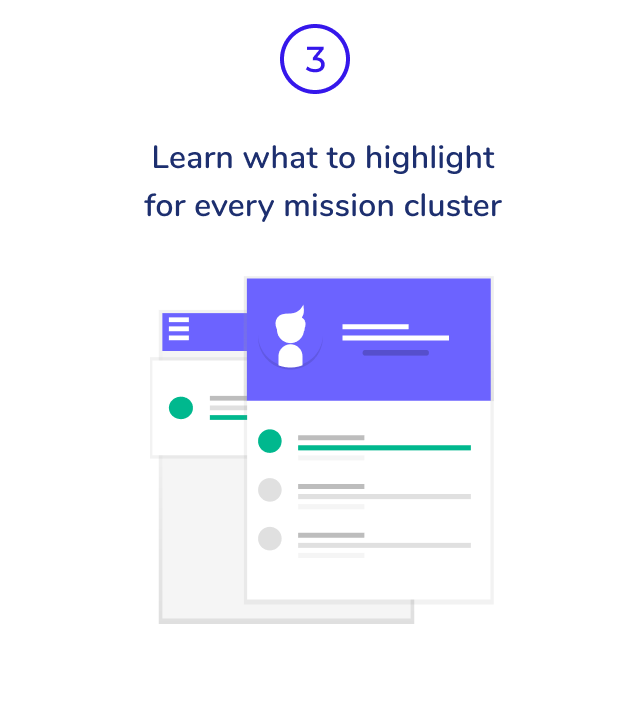
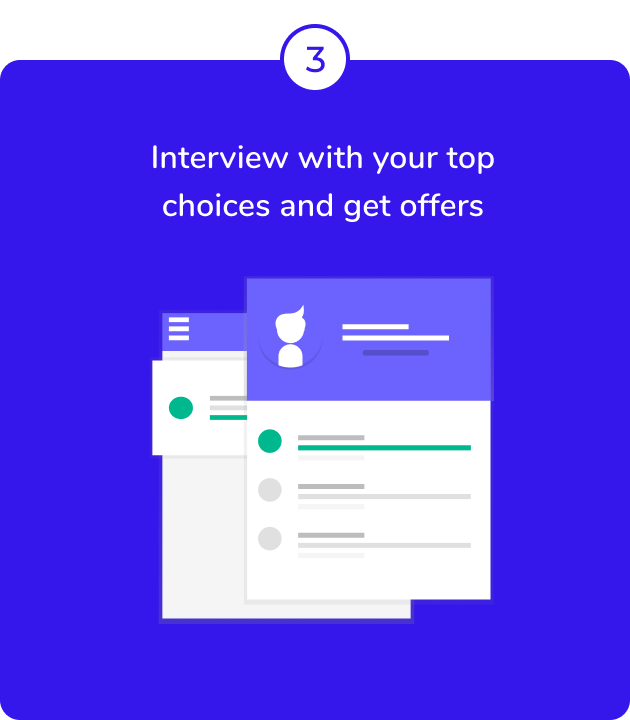
Content fixes on landing page:

diff --git a/website/src/components/landing-page.component.js b/website/src/components/landing-page.component.js
@@ -26,7 +26,6 @@ function LandingPage({ isAuthenticated, user }) {
     console.log(userData);
     console.log(allUsers)
 
-    
     return(
         <>
             <div className= 'blue-block landing-block black-text'>
@@ -49,32 +48,32 @@ function LandingPage({ isAuthenticated, user }) {
                         </ul>
                         <h1 className="black-text landing-text">Find a tech internship <br></br>
                         in <b>{" "}<span id="myElement"></span></b>|</h1>
-                        <p className="landing-text p1"> Start growing your career in tech by looking in the <br></br>
-                        areas you’re most passionate about.</p>
+                        <p className="landing-text p1"> Apply to mission-based clusters of companies and land<br></br>
+                        your dream SWE or PM internship.</p>
                     </div>
             </div>
 
-            <div className= 'white-block black-text'>
+{/*             <div className= 'white-block black-text'>
                 <div className= 'content'>
                     <h2>Explore Internships By Mission Cluster</h2>
                     <ClusterList />
                 </div>
-            </div>
+            </div> */}
 
-            <div className='blue-block'>
+            <div className='white-block'>
                 <div className= 'content'>
-                    <h2 className= 'center-text white-text text-space'>TechBound can help you customize your resume to company mission.</h2>
+                    <h2 className= 'center-text text-space black-text'>Stop sending hundreds of resumes into black holes of companies you're not excited about</h2>
                     <div class= 'image-rows'>
-                        <img class= 'three-step' alt='1. Choose the missions that resonate with you most' src='../../images/step1.png' />
-                        <img class= 'three-step' alt='2. Share your resume and other work experiences' src='../../images/step2.png' />
-                        <img class= 'three-step' alt='3. Learn what to highlight for every mission cluster' src='../../images/step3.png' />
+                        <img class= 'three-step' alt='1. Apply to the clusters that resonate with you most' src='../../images/step1.png' />
+                        <img class= 'three-step' alt='2. Meet and network with company recruiters within the clusters' src='../../images/step2.png' />
+                        <img class= 'three-step' alt='3. Interview with your top choices and get offers' src='../../images/step3.png' />
                     </div>
                 </div>
             </div>
 
             <div className='white-block'>
-                <div className= 'content'>
-                    <h2>Let us look at your resume and help you tailor it to your dream clusters.</h2>
+                <div className= 'content '>
+                    <h2 className= 'center-text text-space black-text'>Create an account to get first priority for our first fall cohort.</h2>
                     <Basics />
                 </div>
             </div>

diff --git a/website/src/components/basics.component.js b/website/src/components/basics.component.js
@@ -51,12 +51,11 @@ const Basics = ({ isAuthenticated, user }) => {
   return (
     <div>
       <Form>
-        <Form.Group className="form-label form-margin">
-          Email (to send results)
+         <Form.Group>
           <Form.Control
             type="email"
             name="email"
-            className="form-field"
+            className="form-field form-margin"
             placeholder="jenny@college.edu"
             value={email}
             onChange={setForm}
@@ -73,8 +72,8 @@ const Basics = ({ isAuthenticated, user }) => {
             label={fileName}
           />
         </Form.Group> */}
-        <Button className = 'button' variant="primary" onClick={handleClick}>
-          Get Started
+        <Button className = 'button form-margin' variant="primary" onClick={handleClick}>
+          Create account
         </Button>
       </Form>
     </div>

diff --git a/website/src/App.css b/website/src/App.css
@@ -345,11 +345,13 @@ h5 {
 .form-field {
   background: #F5F4F7;
   box-shadow: inset 0px 2px 5px rgba(0, 0, 0, 0.05);
-  border-radius: 8px;
+  /* border-radius: 8px; */
   width: 18vw;
   height: 5vh;
   font-family: Nunito;
   font-size: 2.25vh;
+  margin-left: 100vw;
+
 }
 
 .form-label {
@@ -357,11 +359,12 @@ h5 {
   font-size: 2.25vh;
   font-weight: 400;
   color: #152352;
+  margin-left: 100vw;
 }
 
 .form-margin {
-  margin-top: 8vh;
-  margin-bottom: 8vh;
+  margin-bottom: 4vh;
+  margin-left: 40vh; 
 }
 
 .inline-form-text {

diff --git a/website/src/App.js b/website/src/App.js
@@ -30,7 +30,7 @@ function App() {
           <div className="container">
             <Switch>
               <Route path="/sign-up/more" exact component={SignUpNext} />
-              <Route path="/landing" exact component={LandingPage} />
+              <Route path="/" exact component={LandingPage} />
               <Route path="/profile" exact component={Profile} />
               <Route path="/login" exact component = {Login} />
               <Route path="/sign-up" exact component = {SignUpFirst} />

diff --git a/website/src/components/more-deets.component.js b/website/src/components/more-deets.component.js
@@ -128,7 +128,7 @@ const MoreDeets = ({ setForm, formData, navigation }) => {
                     >
                         <option>Other</option>
                         {getColleges()}
-                        {/* {colleges.map(college => <option>{college.name}</option>)} */}
+                        {colleges.map(college => <option>{college.name}</option>)}
                     </Form.Control>
                 </Form.Group>
                 <Form.Group>

diff --git a/website/public/index.html b/website/public/index.html
@@ -2,7 +2,7 @@
 <html lang="en">
   <head>
     <meta charset="utf-8" />
-    <link rel="icon" href="%PUBLIC_URL%/favicon.ico" />
+    <link rel="icon" href="%PUBLIC_URL%/favicon.png" />
     <meta name="viewport" content="width=device-width, initial-scale=1" />
     <meta name="theme-color" content="#000000" />
     <meta
